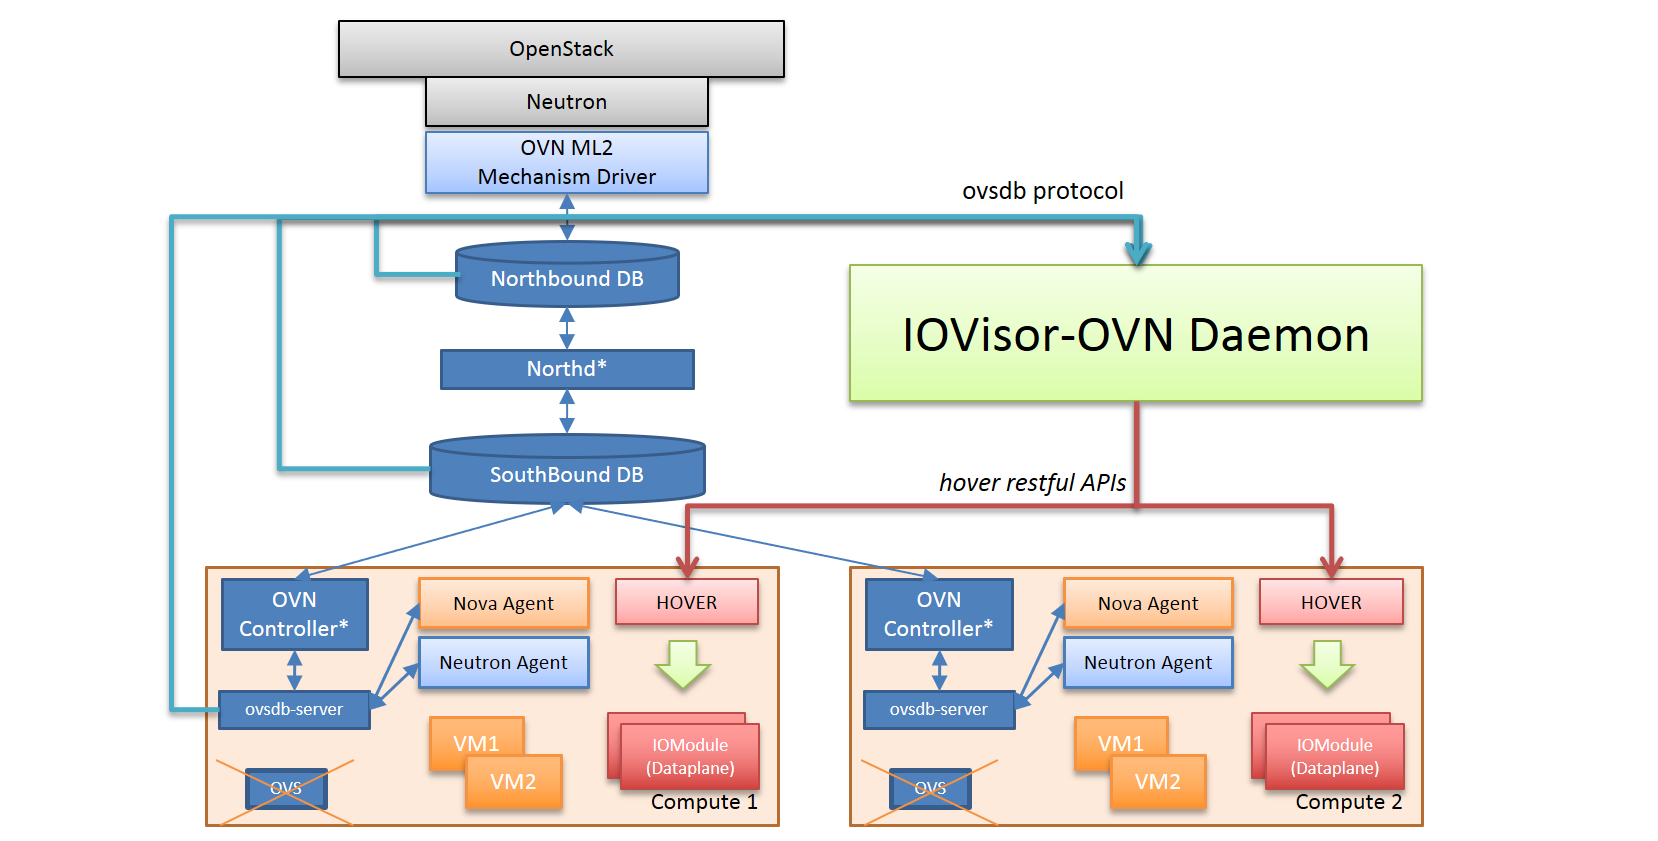
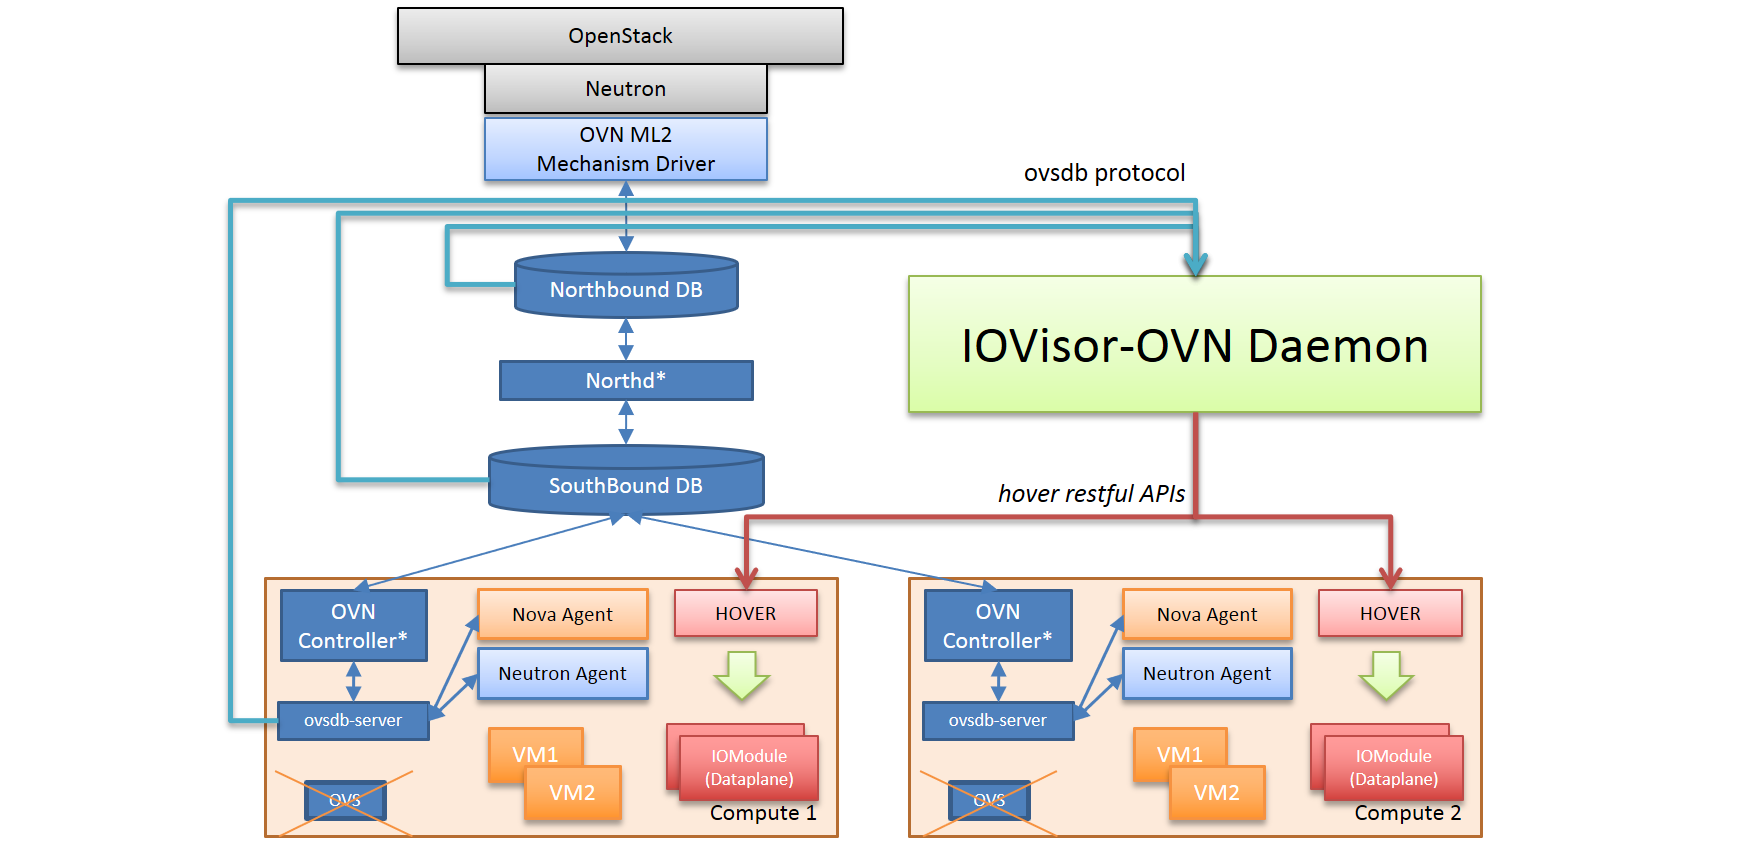
iovisor-ovn-overview image modified

Changed region(s): [[0.0923, 0.0, 0.8613, 1.0]]

diff --git a/ARCHITECTURE.md b/ARCHITECTURE.md
@@ -3,7 +3,7 @@
 ---
 ## Architecture
 
-![IOVisor-OVN architecture](https://raw.githubusercontent.com/netgroup-polito/iovisor-ovn/master/docs/Architecture.png)
+![IOVisor-OVN architecture](https://raw.githubusercontent.com/netgroup-polito/iovisor-ovn/master/docs/iovisor-ovn-architecture.png)
 
 IOVisor-OVN sits on side of the traditional OVN architecture, it intercepts the
 contents of the different databases and based on an implemented logic it deploys
